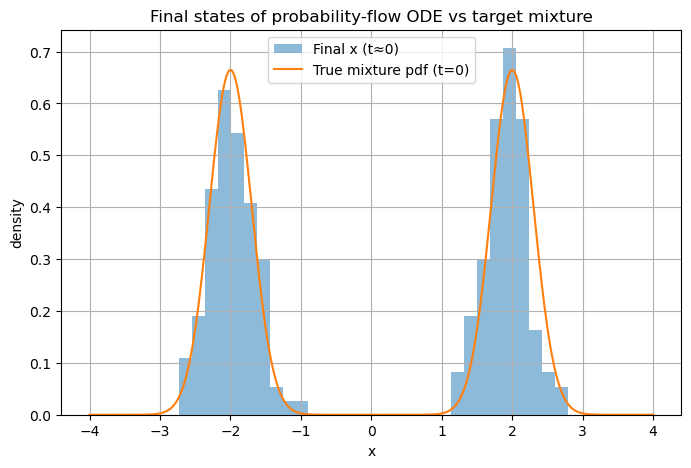
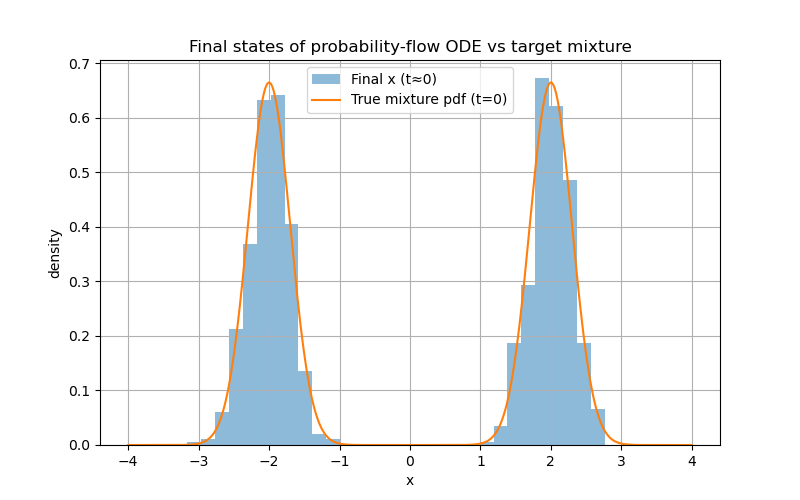
first draft

diff --git a/_posts/2025-08-26-diffusion-sde.md b/_posts/2025-08-26-diffusion-sde.md
@@ -8,103 +8,107 @@ description: The forward and reverse processes of a diffusion model are governed
 
 ## Personal Note - Motivations
 
-In many posts that I see online, diffusion models are only talked about in the context of how to use a diffusion model and how the model is optimized (variational inference). The forward process is often described as a Markov Chain, which is true but this skips the step of why a Markov chain is used to begin with. The underlying reason is that the forward and reverse process of a diffusion model are governed by stochastic differential equations (SDEs). Markov chains are one method to numerically solve an SDE. In this post, I will discuss the SDEs that govern such processes and hopefully the reader, like me, will appreciate how neat they are.
+In many posts that I see online, diffusion models are only talked about in the context of how to use a diffusion model and how the model is optimized (e.g., variational inference). The forward process is often described as a Markov Chain, which is true, but doesn’t explain why a Markov chain is used to begin with. The forward and reverse processes of a diffusion model are governed by stochastic differential equations (SDEs), and Markov chains are used to numerically solve the SDE. In this post, I discuss the SDEs that govern both processes, and hopefully, the reader will appreciate how neat they are.
 
 ## Variance-Preserving SDE
 
-As most know, a diffusion model has a forward and reverse process. The forward process takes an image and gradually adds noise to each pixel until the entire image is noise. A neural network is then trained to take the corrupted image and denoise it, effectively learning the reverse process. After training, one is left with a generative model. Given a corrupted image, the model can generate a new image. 
+A diffusion model involves both forward and reverse processes. The forward process takes an image and gradually adds noise to each data point until the entire distribution is noise. In the context of images, noise is added to each pixel channel until the entire image is white noise. For the reverse process, a neural network is then trained, taking the noisy image as input, generating noise predictions, and using them to denoise the image. After training, one is left with a generative model. Given a noisy image, the model can reverse the process to generate a new image. 
 
-Thinking about this process, one can start to formulate how to describe it mathematically. What is the unit of observation and which dimensions do we need to keep track of? It is clear that we need a time dimension $t$ because we're trying to model a process over time. We could use an entire image as a unit of observation and treat the problem as the evolution of a density but an easier method is to use each pixel has a unit of observation. There is also a space dimension to track, which is the 3D space of RGB values or just a single vector for grayscale images. For all examples below, we will use grayscale images.
-
-To recap, we will use an SDE to model the trajectory of a pixel $x_t$ over time $t$. The space is the 1D space of pixel intensity values. The general form Ito SDE is given by 
-
-\begin{equation}
-\frac{d x_t}{d t} = f(x_t, t)dt + g(x_t, t)dW_t
-\end{equation}
-
-where $W_t$ is standard Brownian motion, meaning the noise term $\epsilon \sim \mathcal{N}(0, dt)$. The drift term $f(x_t, t)$ is the deterministic part, while the diffusion term $g(x_t, t)$ is the stochastic part. \footnote{One may have seen this equation in time series. It's essentially the same concept.}
-
-Variance preserving means the variance of the pixels stays roughly constant even as noise is added, $Var[X_t] \approx Var[X_0]$. This is important in the context of deep learning because it keeps training stable. The SDE for the variance-preserving case is given by
-
-\begin{equation}
-\frac{d x_t}{d t} = -\frac{1}{2} \beta(t) x_t dt + \sqrt{\beta(t)} d W_t
-\end{equation}
-
-, where
-
-\begin{equation}
-f(t, x_t) = -\frac{1}{2} \beta(t) x_t; \quad g(t, x_t) = \sqrt{\beta(t)}.
-\end{equation}
-
-Note that $g(t, x_t)$ is independent of the state and only depends on time. The parameter $\beta(t)$ is the variance schedule. It is a hyperparameter that controls the amount of noise added at each step. This equation is known as the Ornstein–Uhlenbeck process. The derivation is not shown. For the rest of this blog, we'll use a constant $\beta(t) = \beta$, so we'll drop the $t$:
-
-\begin{equation}
-\frac{d x_t}{d t} = -\frac{1}{2} \beta x_t dt + \sqrt{\beta} d W_t.
-\end{equation}
+The reverse and forward processes can each be expressed as a continuous mathematical model. We use a pixel as a unit of observation and model its trajectory in intensity space over time. For a grayscale image, intensity is a scalar, ranging from 0 to 255. For RGB images, the space dimension has three components, one for each of the three channels. One can think of a point moving randomly in 3D space, as shown in Figure 1. For the remaining examples in this blog post, we will use grayscale images.
 
 <div class="row mt-3">
     <div class="col-sm mt-3 mt-md-0">
-        {% include figure.liquid loading="eager" path="assets/img/sde_paths.gif" class="img-fluid rounded z-depth-1" 
-        caption="Figure 1. Pixel Trajectories in Intensity Space" %}
+        {% include figure.liquid loading="eager" path="assets/img/3d_random_walk.gif" class="img-fluid rounded z-depth-1" 
+        caption="Figure 1. Random Walk in RGB Space" %}
     </div>
     <div class="col-sm mt-3 mt-md-0">
     </div>
 </div>
 
-Figure 1 shows the trajectories of two pixels over time, each starting at the intensity value of 0. To keep in mind, for simplicity, the initial condition is fixed in this example but this does not have to be the case.
+We use an SDE to model the trajectory of a pixel $x_t$ over time $t$. The space is the 1D space of grayscale pixel intensity values. The general form of the Ito SDE is given by
+
+\begin{equation}
+d x_t = f(x_t, t)dt + g(x_t, t)dW_t
+\end{equation}
+
+, where $W_t$ is Brownian motion with noise term $\epsilon \sim \mathcal{N}(0, dt)$. The drift term $f(x_t, t)$ is the deterministic part, while the diffusion term $g(x_t, t)$ is the stochastic part. Next, we use the variance preserving (VP) form of the SDE $[3]$. Variance preserving means the variance of the pixels stays roughly constant even as noise is added, $Var[X_t] \approx Var[X_0]$. This is important in the context of deep learning because it keeps training stable. The SDE for the VP case is given by
+
+\begin{equation}
+d x_t = -\frac{1}{2} \beta(t) x_t dt + \sqrt{\beta(t)} d W_t
+\end{equation}
+
+, where
+
+$$
+f(t, x_t) = -\frac{1}{2} \beta(t) x_t; \quad g(t, x_t) = \sqrt{\beta(t)}.
+$$
+
+Note that $g(t, x_t)$ is independent of the state and only depends on time. The parameter $\beta(t)$ is the variance schedule. It is a hyperparameter that controls the amount of noise added at each step. This equation is known as the Ornstein–Uhlenbeck process (derivation is not shown). For the rest of this blog, we'll use a constant $\beta(t) = \beta$, so we can drop the $t$:
+
+\begin{equation}
+d x_t = -\frac{1}{2} \beta x_t dt + \sqrt{\beta} d W_t.
+\end{equation}
+
+<div class="row mt-3">
+    <div class="col-sm mt-3 mt-md-0">
+        {% include figure.liquid loading="eager" path="assets/img/sde_paths.gif" class="img-fluid rounded z-depth-1" 
+        caption="Figure 2. Pixel Trajectories in Intensity Space" %}
+    </div>
+    <div class="col-sm mt-3 mt-md-0">
+    </div>
+</div>
+
+Equation (3) gives us the final VP SDE for the forward process. Figure 2 shows the trajectories of two pixels over time, each starting at the intensity value of 0. Pixels were normalized to be between -1 and 1. To keep in mind, for simplicity, the initial condition is fixed in this example, but this does not have to be the case.
 
 ### Numerical Integration
 
-In practice, we cannot solve SDEs analytically, so we resort to numerical methods. The basic idea is to discretize time and approximate the solution at each time step. This known as the Euler-Maruyama method, which in practice is implemented via Markov Chain Monte Carlo (MCMC) methods. Mathematically we can express it as the following recursive relation:
-
+In practice, we often cannot solve SDEs analytically, so we resort to numerical methods. The idea is to discretize time and space and approximate the solution. This is known as the Euler-Maruyama method, which in practice is implemented via Markov Chain Monte Carlo (MCMC) methods. Mathematically, we can express it as the following recursive relation:
 
 \begin{equation}
 x_{t+\Delta t} = x_t + f(t, x_t) \Delta t + g(t) \epsilon \sqrt{\Delta t}  \quad \text{where } \epsilon \sim \mathcal{N}(0, 1)
 \end{equation}
 
-The time step $t+\Delta t$ is only dependent on the previous state and $\epsilon$ does not depend on time because we're adding constant noise. $f(t, x_t)dt \approx f(t, x_t) \Delta t$. In the equation above, we approximated $g(t) dW_t$.
+By the Markov assumption, the time step $t+\Delta t$ is only dependent on the previous timestep $t$, and $\epsilon$ does not depend on time because we're adding constant noise. For the drift term, we use the approximation that $f(t, x_t)dt \approx f(t, x_t) \Delta t$. For $g(t) dW_t$, we approximate it by $g(t) \epsilon \sqrt{\Delta t}$. To arrive at this approximation, we do the following manipulation:
 
 $$
-g(t) dW_t = g(t) (\mu t + \sigma B(t)) = g(t) \sigma B(t) \approx g(t) \epsilon \sqrt{\Delta t}  \quad \epsilon \sim \mathcal{N}(0, I)
+g(t) dW_t = g(t) (\mu t + \sigma B(t)) = g(t) \sigma B(t) \approx g(t) \epsilon \sqrt{\Delta t}  \quad \epsilon \sim \mathcal{N}(0, I).
 $$
 
-The first step, we plug in the definition of change in Brownian motion. The second step we drop the $\mu$ term because the mean of our Brownian motion is 0. The third step we set variance to the $\Delta t$, the time step and use the fact that $B(t) \sim \mathcal{N}(0, \Delta t)$ both from the definition of Brownian motion.
+In the first step, we plug in the definition of change in Brownian motion. In the second step, we drop the $\mu$ term because the mean of our Brownian motion is 0. In the third step, we set variance to the $\Delta t$, the time step, and use the fact that $B(t) \sim \mathcal{N}(0, \Delta t)$, both from the definition of Brownian motion.
 
 ### Solution to the SDE Equation
 
-At this point, we have an equation that governs the trajectories of pixels over intensity space over time. When solving an SDE, we talk about whether a distribution of paths solve the SDE. A solution of an SDE is a probability distribution of $\\{X_t \\}_{t=0}^T$, namely the joint distribution over all $X_t$ for $t \in [0, T]$. The SDE is linear with additive noise, so the solution must be Gaussian for all $t$.
+At this point, we have an equation that governs the trajectories of pixels over intensity space over time. When solving an SDE, we talk about whether a distribution of paths solves the SDE. A solution of an SDE is a probability distribution of $\\{X_t \\}_{t=0}^T$, namely the joint distribution over all $X_t$ for $t \in [0, T]$. The SDE is linear with additive noise, so the solution must be Gaussian for all $t$.
 
-The solution is given by:
+The solution $[2]$ is given by:
 
 \begin{equation}
-X_t = e^{-\frac{1}{2} \beta t} X_0 + \int_0^t e^{-\frac{1}{2} \beta (t-s)} \sqrt{\beta} dW_s
+X_t = e^{-\frac{1}{2} \beta t} X_0 + \int_0^t e^{-\frac{1}{2} \beta (t-s)} \sqrt{\beta} dW_s.
 \end{equation}
 
-The first term is the mean contribution and the second term is the variance contribution. Let's compute the variance of $X_t$: 
+The first term is the mean contribution and the second term is the variance contribution. Let's compute the variance of $X_t$, assuming $X_0$ is independent of $W_t$:
 
-$$
+\begin{equation}
 Var[X_t] = e^{- \beta t} Var[X_0] + Var\left[\int_0^t e^{- 0.5 \beta (t-s)} \sqrt{\beta} dW_s\right]
-$$
+\end{equation}
 
-From ito integral we know that 
-
-$$
-Var[\int_0^t f(s) dW_s] = \int_0^t f^2(s) ds
-$$
-
-so then,
+Focusing on the second term $I = \int_0^t h(s) dW_s$, from Itô isometry $[6]$ and because $E[I]= 0$, we know that $Var[I] = E[I^2]$. So then,
 
 $$
-\int_0^t \beta e^{-\beta (t-s)} ds = 1 - e^{-\beta t}
+Var[I] = E[I^2] = \int_0^t f^2(s) ds 
 $$
 
-The variance of $X_t$ is given by
-
 $$
-Var[X_t] = e^{- \beta t} Var[X_0] + (1 - e^{-\beta t}).
+= \int_0^t \beta e^{-\beta (t-s)} ds = 1 - e^{-\beta t}
 $$
 
-The expected value is computed by
+Substituting back, we find that
+
+\begin{equation}
+Var[X_t] = e^{- \beta t} Var[X_0] + (1 - e^{-\beta t})
+\end{equation}
+
+Next, we compute the expected value:
 
 $$
 E[X_t] = e^{-\frac{1}{2} \beta t} E[X_0] + \int_0^t e^{-\frac{1}{2} \beta (t-s)} \sqrt{\beta} E[dW_s]
@@ -112,9 +116,9 @@ $$
 
 but since $E[dW_s] = 0$, we have
 
-$$
+\begin{equation}
 E[X_t] = e^{-\frac{1}{2} \beta t} X_0.
-$$
+\end{equation}
 
 The SDE solution shows us that for initial condition $X_0 = x_0$,the conditional distribution $X_t \vert X_0 = x_0$ is Gaussian. In distributional form, we have
 
@@ -128,16 +132,16 @@ or equivalently as a pdf
 p(x, t \vert x_0, 0) =  \frac{1}{\sqrt{2 \pi (1 - e^{-\beta t})}} \exp\left(-\frac{(x - e^{-\frac{1}{2} \beta t} x_0)^2}{2(1 - e^{-\beta t})}\right).
 \end{equation}
 
-$Var[X_0] = \sigma^0 = 0$ because we start with a fixed initial condition. Equations (7) and (8) are solutions to the SDE.
+Equations (9) or (10) are solutions to the SDE.
 
 ## Fokker-Planck Equation
 
-The joint distribution over all $X_t$ for $t \in [0, T]$ is nice to have but for diffusion probabilistic models, we consider a weaker notion. We are only interested in the marginal probability distributions $\\{p_t\\}_{t=0}^T$, such that $X_t \sim p_t$ for each $t$. Fixing $t$, we are interested in how the density $p_t(x_t)$ evolves over time. For example, if we simulated a bunch of trajectories and took a slice at $t=0.4$, as shown in Figure 2, what would the density look like?
+The joint distribution over all $X_t$ for $t \in [0, T]$ (e.g., the distribution of pixel trajectories) is nice but for diffusion probabilistic models, we consider a weaker notion. We are only interested in the marginal probability distributions $\\{p_t\\}_{t=0}^T$, such that $X_t \sim p_t$ for each $t$. Fixing $t$, we are interested in how the density $p_t(x_t)$ evolves. For example, if we simulated a bunch of trajectories and took a slice at $t=0.4$, as shown in Figure 2, what would the density look like?
 
 <div class="row mt-3">
     <div class="col-sm mt-3 mt-md-0">
         {% include figure.liquid loading="eager" path="assets/img/fokker_intuition.png" class="img-fluid rounded z-depth-1" 
-        caption="Figure 2. Fokker-Planck Equation Intuition" %}
+        caption="Figure 3. Fokker-Planck Equation Intuition" %}
     </div>
     <div class="col-sm mt-3 mt-md-0">
     </div>
@@ -145,9 +149,9 @@ The joint distribution over all $X_t$ for $t \in [0, T]$ is nice to have but for
 
 For VPE-SDE fixed $\beta(t) = \beta$ SDE, The corresponding Fokker - Planck PDE is:
 
-$$
+\begin{equation}
 \partial_t p_t(x) = -\partial_x \left( f(t, x) p_t(x) \right) + \frac{g^2(t)}{2} \partial_{xx}(p_t(x)).
-$$ 
+\end{equation}
 
 The FPE PDE is the equation that governs the change in the unconditional density over time. The solution to this PDE is the unconditional density after marginalizing over the initial condition $X_0$. The solution to the FPE with initial condition $p(x_0, 0)$ is
 
@@ -155,10 +159,15 @@ The FPE PDE is the equation that governs the change in the unconditional density
 p_t(x) = \int p_t(x, t | x_0, 0) p(x_0) dx_0.
 \end{equation}
 
+Figure 4 illustrates the evolution of the marginal distribution over time. The example shown here is using Equation (2), which is a VP SDE with $\beta(t) = \beta$. The density starts with a mean of 2 and a standard deviation of 0.5, but as noise is added to the system, it converges to a standard normal distribution.
+
+- $\mu_t = e^{-\frac{1}{2} \beta t} \cdot 2 \rightarrow 0$ as $t \rightarrow \infty$
+- $Var(X_t) = 0.25e^{-\beta t}  + (1 - e^{-\beta t}) \rightarrow 1$ as $t \rightarrow \infty$
+
 <div class="row mt-3">
     <div class="col-sm mt-3 mt-md-0">
         {% include figure.liquid loading="eager" path="assets/img/fokker_planck_evolution.gif" class="img-fluid rounded z-depth-1" 
-        caption="Figure 3. Fokker-Planck Equation Evolution" %}
+        caption="Figure 4. Fokker-Planck Equation Evolution" %}
     </div>
     <div class="col-sm mt-3 mt-md-0">
     </div>
@@ -166,38 +175,66 @@ p_t(x) = \int p_t(x, t | x_0, 0) p(x_0) dx_0.
 
 ## Probability Flow ODE
 
-For any Itô SDE with drift f(x,t) and diffusion g(t), you can define a deterministic ODE whose solution has the same marginal distributions as the SDE.
+For all diffusion processes, there exists a corresponding deterministic process whose trajectories share the same marginal probability densities $\\{p_t(x)\\}_{t=0}^T$ as the SDE. This deterministic process satisfies the ODE: <a href="https://openreview.net/forum?id=PxTIG12RRHS">[5]</a>
 
 \begin{equation}
-\frac{d x}{d t} = f_{ODE}(x, t) - \frac{1}{2} g^2(t)\nabla_x \log p_t(x)
+\frac{d x}{d t} = f(x, t) - \frac{1}{2} g^2(t)\nabla_x \log p_t(x)
 \end{equation}
 
-$\nabla_x \log p_t(x)$ is the score function which is learned by the neural network. The term pushes particles to higher density regions of $p_t(x)$, which deterministically reproduces the distribution evolution. This ODE is deterministic, no stochastic term. This is the reason we are able to jump timesteps in the reverse process (paper by Song et al.).
+$\nabla_{x} \log p_t(x)$ is the score function, which is learned by the neural network. Intuitively, one can think of the term $\nabla_{x} \log p_t(x)$ as a guiding force that pushes particles to higher density regions of $p_t(x)$, which deterministically reproduces the distribution evolution.
+
+To make it less abstract, we'll walk through a quick example of the reverse process. Assume the true underlying distribution is a Gaussian mixture with means $\mu_1 = -2$ and $\mu_2=2$,  $\sigma_1 = \sigma_2 = 0.30$, and equal weights $w_1 = w_2$. We'll start with a noise sample from $\mathcal{N}(0, 1)$ and reverse the process to get back the Gaussian mixture. Remember $x$ is a scalar. Plugging in $f(x, t)$ and $g(x, t)$ from Equation (3), we get the following probability flow ODE:
+
+\begin{equation}
+\frac{d x}{d t} = -\frac{1}{2} \beta x - \frac{1}{2} \beta \nabla_{x} \log p_t(x).
+\end{equation}
+
+For a mixture of Gaussians, we have
+
+$$
+p(x) = \sum^k_{j = 1} w_j \mathcal{N}(x | \mu_j, \sigma^2).
+$$
+
+The score is then,
+
+$$
+\nabla_x \log p(x) = \sum_{j=1}^k r_j(x) (-x - \mu_j) / \sigma^2
+$$
+
+where
+
+$$
+r_j(x) = \frac{w_j \mathcal{N}(x | \mu_j, \sigma^2)}{\sum_{i=1}^k w_i \mathcal{N}(x | \mu_i, \sigma^2)}.
+$$
+
+The score is a weighted average of each of the component scores. The responsibility $r_j(x)$ is the posterior probability that $x$ came from component $j$. The term $(x-\mu_j) / \sigma^2$ is the derivative of the Gaussian log-density with respect to $x$.
 
 <div class="row mt-3">
     <div class="col-sm mt-3 mt-md-0">
         {% include figure.liquid loading="eager" path="assets/img/reverse_trajectories.png" class="img-fluid rounded z-depth-1" 
-        caption="Figure 4. Reverse Trajectories" %}
+        caption="Figure 5. Reverse Trajectories" %}
     </div>
     <div class="col-sm mt-3 mt-md-0">
         {% include figure.liquid loading="eager" path="assets/img/reverse_distribution.png" class="img-fluid rounded z-depth-1" 
-        caption="Figure 5. Recovered Distribution" %}
+        caption="Figure 6. Recovered Distribution" %}
     </div>
 </div>
 
-In Figures 4 and 5 we start by sampling from a Gaussian noise distribution and then reverse the process to get back the original distribution, which is a bi-modal Gaussian mixture. The process is analogous to the diffusion process for an image where we start with a sampled noisy image and reverse the process to recover the original distribution, the denoised image. 
+In Figures 5 and 6, we show the trajectories and final distribution of the probability flow ODE. We start by sampling a point from a Gaussian noise distribution $\mathcal{N}(0, 1)$ and then reverse the process to get back the original distribution, the bi-modal Gaussian mixture with means $\mu_1 = -2$ and $\mu_2=2$,  $\sigma_1 = \sigma_2 = 0.30$ and equal weights $w_1 = w_2$. For this example, we know a priori the analytical stationary distribution, shown in orange. Figure 6 shows that the trajectories of the ODE closely match the true distribution. The process is analogous to the diffusion process for an image, where we start with a sampled noisy image and reverse the process to recover the original distribution, the denoised image.
 
 ## Sources
 
-2.1. Gaussian mixture models. (n.d.). Scikit-learn. https://scikit-learn.org/stable/modules/mixture.html
+1. 2.1. Gaussian mixture models. (n.d.). Scikit-learn. https://scikit-learn.org/stable/modules/mixture.html
 
-Ryu, E. K. & Seoul National University. (2021). Diffusion Models Chapter 1: Reverse-Time SDE. In Generative AI and Foundation Models. https://ernestryu.com/courses/FM/diffusion1.pdf
+2. Ryu, E. K. & Seoul National University. (2021). Diffusion Models Chapter 1: Reverse-Time SDE. In Generative AI and Foundation Models. https://ernestryu.com/courses/FM/diffusion1.pdf
 
-Ryu, E. K. & Seoul National University. (2021). Diffusion Models Chapter 2: Training via Score Matching. In Generative AI and Foundation Models. https://ernestryu.com/courses/FM/diffusion2.pdf
+3. Ryu, E. K. & Seoul National University. (2021). Diffusion Models Chapter 2: Training via Score Matching. In Generative AI and Foundation Models. https://ernestryu.com/courses/FM/diffusion2.pdf
 
-Sigman, K. (n.d.). IEOR 4700: Notes on Brownian Motion. https://www.columbia.edu/~ks20/FE-Notes/4700-07-Notes-BM.pdf
+4. Sigman, K. (n.d.). IEOR 4700: Notes on Brownian Motion. https://www.columbia.edu/~ks20/FE-Notes/4700-07-Notes-BM.pdf
 
-Song, Y., Sohl-Dickstein, J., Kingma, D. P., Kumar, A., Ermon, S., & Poole, B. (2020). Score-Based Generative Modeling through Stochastic Differential Equations. arXiv (Cornell University). https://doi.org/10.48550/arxiv.2011.13456
+5. Song, Y., Sohl-Dickstein, J., Kingma, D. P., Kumar, A., Ermon, S., & Poole, B. (n.d.). Score-Based Generative Modeling through Stochastic Differential Equations. OpenReview. https://openreview.net/forum?id=PxTIG12RRHS
+
+6. The Itô isometry —Andrew Tulloch. (n.d.). https://tullo.ch/articles/the-ito-isometry/
 
 ## Appendix
 
@@ -207,18 +244,22 @@ A stochastic process $\textbf{B} = \{B(t): t \geq 0\}$ possessing continuous sam
 
 1. $B(0) = 0$.
 2. $\textbf{B}$ has both stationary and independent increments.
-3. $\textbf{B}(t) - \textbf{B}(s) \sim \mathcal{N}(0, t-s)$ for all $0 \leq s < t$. mean is 0 and variance is $t-s$.
+3. $B(t) - B(s) \sim \mathcal{N}(0, t-s)$ for all $0 \leq s < t$. mean is 0 and variance is $t-s$.
 
-- For variance $\sigma^2$ and drift $\mu$, $y(t) = \mu t + \sigma B(t)$, the definition is the same except:
+For variance $\sigma^2$ and drift $\mu$, $y(t) = \mu t + \sigma B(t)$, the definition is the same except:
 $$
 y(t) - y(s) \sim \mathcal{N}(\mu(t-s), \sigma^2(t-s))
 $$
 
 ### Gaussian Mixture
 
-The mixture distribution is defined as:
+The Gaussian mixture we used in the example was bimodal, which can be expressed as:
 $$
 p(x) = w_1 \mathcal{N}(x | \mu_1, \sigma_1^2) + w_2 \mathcal{N}(x | \mu_2, \sigma_2^2)
 $$
 
-The weights $w_1$ and $w_2$ control how likely you are to sample from each component when you draw from the mixture.
+The weights $w_1$ and $w_2$ control how likely you are to sample from each component when you draw from the mixture. A more general form is:
+$$
+p(x) = \sum_{i=1}^k w_i \mathcal{N}(x | \boldsymbol{\mu_i}, \boldsymbol{\Sigma_i^2}).
+$$
+where $k$ is the number of components in the mixture and $\boldsymbol{\mu_i}$ and $\boldsymbol{\Sigma_i^2}$ are the mean and covariance of the $i$-th component, respectively. The parameters can be scalars, as in the 1D case, or vectors/matrices for the multivariate case.
